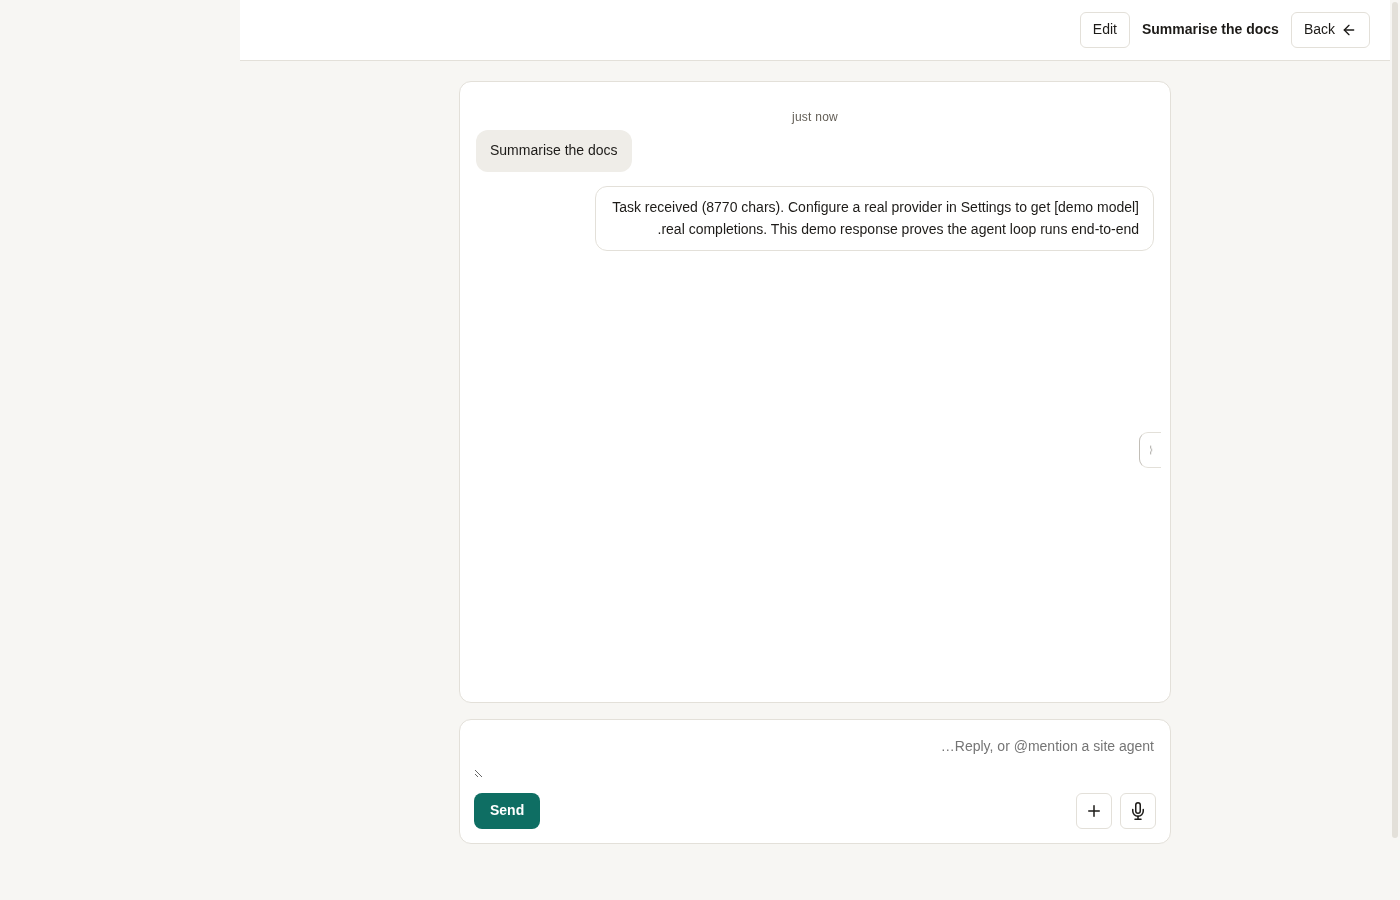
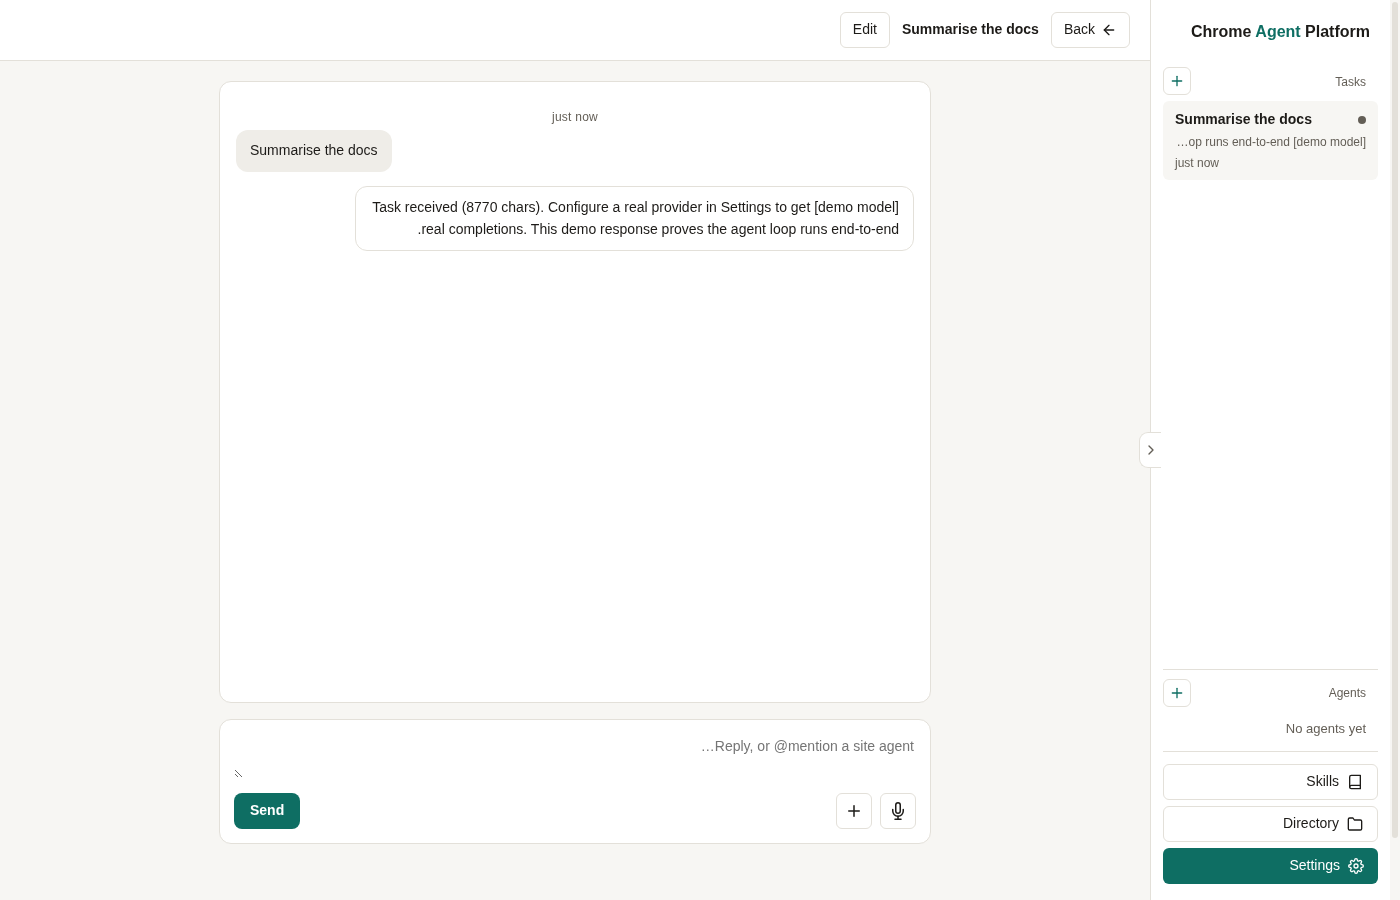
fix(review): adversarial AST scan, midnight theme, RTL overlay inset, full matrix, API rename
Ninth-review blockers:

1. Scanner (adversarial): defaultExportName now catches named default
   function/class __* (not just identifiers); foldString statically resolves
   template literals + -concatenated computed keys (globalThis[`__reset`],
   self['__'+'reset']); the __zod/__vite exemption is scoped to the generated
   dependency bundles (build.mjs passes them) — source files flag any
   __-prefixed global. tests/scan-shipped.test.ts imports scanShippedJs and
   asserts 12 adversarial cases (default fn/class/identifier, alias, template
   literal, folded concat, source-vs-bundle exemption, parse failure).

2. Dark theme: data-theme now uses the VALID 'midnight' id (the 'Charcoal'
   label), and asserts real dark tokens (computed bg/text luminance: dark bg +
   light text) on the sidebar, overlay, AND nub; overlay-dark recaptured.

3. RTL overlay: ntp.html adds [dir=rtl] #thread-view.view-overlay { left:0;
   right:240px } (+ collapsed variant) so the overlay reserves space on the
   right; the test asserts no overlap (overlay.right <= sidebar.left) with the
   overlay transition settled.

4. Overlay-open matrix: narrow/dark/focus now assert ALL THREE surfaces
   (sidebar + overlay + nub) geometry/visibility/theme/focus, not one.

6. API rename: resetStorageTransition → onStoragePermissionTransition (an
   accurately named production state-transition hook, not a 'reset' API).

7. test:all restored to deno test --allow-read tests/ (preserves origin/main
   hardening).
[…]

diff --git a/scripts/ui-integration.ts b/scripts/ui-integration.ts
@@ -509,16 +509,19 @@ try {
   await cdp.send("Emulation.setEmulatedMedia", { features: [] }, hub);
 
   const darkNub = await cdp.eval(hub, `(() => {
-    document.documentElement.dataset.theme = 'charcoal';
+    document.documentElement.dataset.theme = 'midnight';
+    const lum = (c) => { const m = c.match(/\\d+(?:\\.\\d+)?/g); if (!m) return 0; const [r,g,b] = m.map(Number).map(v => v/255).map(v => v <= 0.03928 ? v/12.92 : Math.pow((v+0.055)/1.055, 2.4)); return 0.2126*r + 0.7152*g + 0.0722*b; };
     const nub = document.querySelector('#side-toggle .nub');
-    const cs = getComputedStyle(nub);
+    const side = document.querySelector('#side');
+    const cs = getComputedStyle(nub); const scs = getComputedStyle(side);
     // READ the values BEFORE resetting the theme (getComputedStyle is live —
     // reading after the reset would validate the restored light theme).
-    const out = { visible: cs.borderTopStyle !== 'none' && cs.borderTopWidth !== '0px', border: cs.borderTopColor, bg: cs.backgroundColor };
+    const out = { visible: cs.borderTopStyle !== 'none' && cs.borderTopWidth !== '0px', border: cs.borderTopColor, nubBg: cs.backgroundColor, sideBg: scs.backgroundColor, sideText: scs.color, sideBgLum: lum(scs.backgroundColor), sideTextLum: lum(scs.color) };
     document.documentElement.dataset.theme = 'sunlit';
     return out;
   })()`);
   check("dark theme: nub renders with a visible border", darkNub?.visible === true, darkNub);
+  check("dark theme (midnight): the sidebar applies dark tokens (dark bg + light text)", darkNub && darkNub.sideBgLum < 0.2 && darkNub.sideTextLum > 0.6, darkNub);
 
   // 9. Overlay-OPEN matrix (the reviewer's D blocker): the real thread overlay
   //    must stay OPEN while sidebar + overlay + nub are asserted across RTL /
@@ -552,48 +555,61 @@ try {
   })()`);
   check("overlay-open matrix: overlay + nub are in-bounds", overlayGeom && overlayGeom.overlay && overlayGeom.nub && overlayGeom.overlay.left >= 0 && overlayGeom.overlay.right <= overlayGeom.vw && overlayGeom.nub.right <= overlayGeom.vw && overlayGeom.nub.left >= 0, overlayGeom);
 
-  // RTL (overlay open): the rail + nub flip to the right; the nub centres on the
-  // rail's inner (left) boundary and the overlay remains in-bounds.
+  // RTL (overlay open): the rail + nub flip to the right; the overlay reserves
+  // space on the right so the sidebar + nub stay visible (no overlap). Wait for
+  // the overlay's left/right transition to settle before measuring.
+  await cdp.eval(hub, `document.documentElement.setAttribute('dir', 'rtl')`);
+  await sleep(1000);
   const overlayRtl = await cdp.eval(hub, `(() => {
-    document.documentElement.setAttribute('dir', 'rtl');
     const r = (el) => { const b = el.getBoundingClientRect(); return { left: Math.round(b.left), right: Math.round(b.right), cx: Math.round(b.left + b.width/2) }; };
     const side = r(document.querySelector('#side')); const nub = r(document.querySelector('#side-toggle')); const overlay = r(document.getElementById('thread-view'));
-    const out = { sideLeft: side.left, nubCx: nub.cx, nubOnInner: Math.abs(nub.cx - side.left) <= 3, overlayInBounds: overlay.left >= 0 && overlay.right <= innerWidth, vw: innerWidth };
-    document.documentElement.removeAttribute('dir');
-    return out;
+    return { sideLeft: side.left, sideRight: side.right, nubCx: nub.cx, nubOnInner: Math.abs(nub.cx - side.left) <= 3, overlayLeft: overlay.left, overlayRight: overlay.right, overlayInBounds: overlay.left >= 0 && overlay.right <= innerWidth, noOverlap: overlay.right <= side.left, vw: innerWidth };
   })()`);
   check("overlay-open RTL: nub centres on the rail's inner boundary", overlayRtl?.nubOnInner === true, overlayRtl);
   check("overlay-open RTL: overlay stays in-bounds", overlayRtl?.overlayInBounds === true, overlayRtl);
-  await cdp.eval(hub, `document.documentElement.setAttribute('dir', 'rtl')`);
+  check("overlay-open RTL: overlay does NOT cover the sidebar/nub (no overlap)", overlayRtl?.noOverlap === true, overlayRtl);
   const shotOverlayRtl = await cdp.send("Page.captureScreenshot", { format: "png", fromSurface: true }, hub);
   await Deno.writeFile(`${ROOT}test-artifacts/overlay-rtl.png`, Uint8Array.from(atob(shotOverlayRtl.data), (c: number) => c.charCodeAt(0)));
   await cdp.eval(hub, `document.documentElement.removeAttribute('dir')`);
+  await sleep(1000);
 
   // Dark (overlay open): nub keeps a visible border + the overlay text is legible.
   const overlayDark = await cdp.eval(hub, `(() => {
-    document.documentElement.dataset.theme = 'charcoal';
+    document.documentElement.dataset.theme = 'midnight';
+    const lum = (c) => { const m = c.match(/\\d+(?:\\.\\d+)?/g); if (!m) return 0; const [r,g,b] = m.map(Number).map(v => v/255).map(v => v <= 0.03928 ? v/12.92 : Math.pow((v+0.055)/1.055, 2.4)); return 0.2126*r + 0.7152*g + 0.0722*b; };
     const nub = document.querySelector('#side-toggle .nub');
     const cs = getComputedStyle(nub);
-    const overlay = document.getElementById('thread-view');
-    const ov = getComputedStyle(overlay);
-    const out = { nubBorder: cs.borderTopStyle !== 'none' && cs.borderTopWidth !== '0px', overlayVisible: ov.display !== 'none' && overlay.hidden === false };
+    const side = document.querySelector('#side'); const scs = getComputedStyle(side);
+    const overlay = document.getElementById('thread-view'); const ov = getComputedStyle(overlay);
+    const out = {
+      nubBorder: cs.borderTopStyle !== 'none' && cs.borderTopWidth !== '0px',
+      overlayVisible: ov.display !== 'none' && overlay.hidden === false,
+      sideDark: lum(scs.backgroundColor) < 0.2 && lum(scs.color) > 0.6,
+      overlayDark: lum(ov.backgroundColor) < 0.2 && lum(ov.color) > 0.6,
+    };
     document.documentElement.dataset.theme = 'sunlit';
     return out;
   })()`);
-  check("overlay-open dark: nub keeps a visible border + overlay visible", overlayDark?.nubBorder === true && overlayDark?.overlayVisible === true, overlayDark);
-  await cdp.eval(hub, `document.documentElement.dataset.theme = 'charcoal'`);
+  check("overlay-open dark (midnight): nub keeps a visible border + overlay visible", overlayDark?.nubBorder === true && overlayDark?.overlayVisible === true, overlayDark);
+  check("overlay-open dark (midnight): sidebar applies dark tokens (dark bg + light text)", overlayDark?.sideDark === true, overlayDark);
+  check("overlay-open dark (midnight): overlay applies dark tokens (dark bg + light text)", overlayDark?.overlayDark === true, overlayDark);
+  await cdp.eval(hub, `document.documentElement.dataset.theme = 'midnight'`);
+  await sleep(200);
   const shotOverlayDark = await cdp.send("Page.captureScreenshot", { format: "png", fromSurface: true }, hub);
   await Deno.writeFile(`${ROOT}test-artifacts/overlay-dark.png`, Uint8Array.from(atob(shotOverlayDark.data), (c: number) => c.charCodeAt(0)));
   await cdp.eval(hub, `document.documentElement.dataset.theme = 'sunlit'`);
+  await sleep(200);
 
   // Narrow (overlay open): overlay + nub remain in-bounds at 500px.
   await cdp.send("Emulation.setDeviceMetricsOverride", { width: 500, height: 800, deviceScaleFactor: 1, mobile: false }, hub);
   const overlayNarrow = await cdp.eval(hub, `(() => {
-    const r = (el) => { const b = el.getBoundingClientRect(); return { left: Math.round(b.left), right: Math.round(b.right) }; };
-    const overlay = r(document.getElementById('thread-view')); const nub = r(document.querySelector('#side-toggle'));
-    return { overlayInBounds: overlay.left >= 0 && overlay.right <= innerWidth, nubInBounds: nub.left >= 0 && nub.right <= innerWidth, vw: innerWidth };
+    const r = (el) => { const b = el.getBoundingClientRect(); return { left: Math.round(b.left), right: Math.round(b.right), w: Math.round(b.width) }; };
+    const overlay = r(document.getElementById('thread-view')); const nub = r(document.querySelector('#side-toggle')); const side = r(document.querySelector('#side'));
+    const inb = (x) => x.left >= 0 && x.right <= innerWidth;
+    return { overlayInBounds: inb(overlay), nubInBounds: inb(nub), sideInBounds: inb(side), overlayW: overlay.w, sideW: side.w, vw: innerWidth };
   })()`);
-  check("overlay-open narrow: overlay + nub stay in-bounds", overlayNarrow?.overlayInBounds === true && overlayNarrow?.nubInBounds === true, overlayNarrow);
+  check("overlay-open narrow: overlay + nub + sidebar all stay in-bounds", overlayNarrow?.overlayInBounds === true && overlayNarrow?.nubInBounds === true && overlayNarrow?.sideInBounds === true, overlayNarrow);
+  check("overlay-open narrow: overlay + sidebar coexist (no cover)", overlayNarrow && overlayNarrow.overlayW + overlayNarrow.sideW <= overlayNarrow.vw, overlayNarrow);
   await cdp.send("Emulation.setDeviceMetricsOverride", { width: 1400, height: 900, deviceScaleFactor: 1, mobile: false }, hub);
 
   // Reduced-motion (overlay open): sidebar + overlay + nub transitions disabled.
@@ -612,8 +628,12 @@ try {
   await cdp.send("Input.dispatchKeyEvent", { type: "rawKeyDown", key: "Tab", code: "Tab", windowsVirtualKeyCode: 9, nativeVirtualKeyCode: 9 }, hub);
   await cdp.send("Input.dispatchKeyEvent", { type: "keyUp", key: "Tab", code: "Tab", windowsVirtualKeyCode: 9, nativeVirtualKeyCode: 9 }, hub);
   await sleep(200);
-  const overlayFocus = await cdp.eval(hub, `document.activeElement?.id === 'side-toggle'`);
-  check("overlay-open focus: the nub is Tab-reachable above the overlay", overlayFocus === true, { overlayFocus });
+  const overlayFocus = await cdp.eval(hub, `(() => {
+    const r = (el) => { const b = el.getBoundingClientRect(); return b.width > 0 && b.height > 0; };
+    return { nubFocused: document.activeElement?.id === 'side-toggle', sidebarVisible: r(document.querySelector('#side')), overlayVisible: document.getElementById('thread-view').hidden === false && r(document.getElementById('thread-view')) };
+  })()`);
+  check("overlay-open focus: the nub is Tab-reachable above the overlay", overlayFocus?.nubFocused === true, overlayFocus);
+  check("overlay-open focus: sidebar + overlay are both visible while the nub holds focus", overlayFocus?.sidebarVisible === true && overlayFocus?.overlayVisible === true, overlayFocus);
   // Restore: close the overlay for a clean end state.
   await cdp.eval(hub, `document.getElementById('thread-back')?.click()`);
   await sleep(300);

diff --git a/tests/scan-shipped.test.ts b/tests/scan-shipped.test.ts
@@ -1,0 +1,103 @@
+// Adversarial tests for the shipped-code scanner (scripts/scan-shipped.mjs):
+// every export/oracle bypass form + parse failure + the scoped __zod/__vite
+// exemption must be caught (or, for the exemption, correctly allowed only inside
+// a generated dependency bundle).
+
+// @ts-nocheck — the injected readText shim + acorn types are intentionally dynamic.
+import { assertEquals } from "jsr:@std/assert@1";
+import { scanShippedJs } from "../scripts/scan-shipped.mjs";
+
+async function withTemp(name, code) {
+  const dir = await Deno.makeTempDir({ prefix: "scan-test-" });
+  const file = `${dir}/${name}`;
+  await Deno.writeTextFile(file, code);
+  return { dir, file };
+}
+
+async function violations(code, opts) {
+  const { dir, file } = await withTemp("case.js", code);
+  try {
+    return await scanShippedJs([file], { readText: (f) => Deno.readTextFile(f), ...(opts ?? {}) });
+  } finally {
+    await Deno.remove(dir, { recursive: true }).catch(() => {});
+  }
+}
+
+Deno.test("scan: export default function __reset(){} is caught", async () => {
+  const v = await violations(`export default function __reset() {}`);
+  assertEquals(v.length, 1);
+  assertEquals(v[0].includes("default-exports"), true);
+});
+
+Deno.test("scan: export default class __reset {} is caught", async () => {
+  const v = await violations(`export default class __reset {}`);
+  assertEquals(v.length, 1);
+  assertEquals(v[0].includes("default-exports"), true);
+});
+
+Deno.test("scan: export default __x (identifier) is caught", async () => {
+  const v = await violations(`const __x = 1; export default __x;`);
+  assertEquals(v.length, 1);
+  assertEquals(v[0].includes("default-exports"), true);
+});
+
+Deno.test("scan: export { x as __y } alias is caught", async () => {
+  const v = await violations(`const x = 1; export { x as __y };`);
+  assertEquals(v.length, 1);
+  assertEquals(v[0].includes("exports `__y`"), true);
+});
+
+Deno.test("scan: export const __z = 1 is caught", async () => {
+  const v = await violations(`export const __z = 1;`);
+  assertEquals(v.length, 1);
+  assertEquals(v[0].includes("exports `__z`"), true);
+});
+
+Deno.test("scan: window.__oracle = 1 is caught", async () => {
+  const v = await violations(`window.__oracle = 1;`);
+  assertEquals(v.length, 1);
+  assertEquals(v[0].includes("window[\"__oracle\"]"), true);
+});
+
+Deno.test("scan: globalThis[`__reset`] (template literal) is caught", async () => {
+  const v = await violations("globalThis[`__reset`] = 1;");
+  assertEquals(v.length, 1);
+  assertEquals(v[0].includes("globalThis[\"__reset\"]"), true);
+});
+
+Deno.test('scan: self["__" + "reset"] (folded string concat) is caught', async () => {
+  const v = await violations(`self["__" + "reset"] = 1;`);
+  assertEquals(v.length, 1);
+  assertEquals(v[0].includes("self[\"__reset\"]"), true);
+});
+
+Deno.test("scan: globalThis.__zodResetForTest in SOURCE is caught (no exemption outside bundles)", async () => {
+  const v = await violations(`globalThis.__zodResetForTest = 1;`);
+  assertEquals(v.length, 1);
+  assertEquals(v[0].includes("__zodResetForTest"), true);
+});
+
+Deno.test("scan: globalThis.__zod_ok is ALLOWED only inside a generated bundle", async () => {
+  // Without the generated-bundle scope → violation.
+  const v1 = await violations(`globalThis.__zod_ok = 1;`);
+  assertEquals(v1.length, 1);
+  // With the generated-bundle scope → allowed.
+  const { dir, file } = await withTemp("bundle.js", `globalThis.__zod_ok = 1;`);
+  const v2 = await scanShippedJs([file], { readText: (f) => Deno.readTextFile(f), generatedBundles: new Set([file]) });
+  await Deno.remove(dir, { recursive: true }).catch(() => {});
+  assertEquals(v2.length, 0);
+});
+
+Deno.test("scan: a parse failure is a violation", async () => {
+  const v = await violations(`export default function {`);
+  assertEquals(v.length, 1);
+  assertEquals(v[0].includes("not parseable"), true);
+});
+
+Deno.test("scan: a clean file has zero violations", async () => {
+  const v = await violations(`export const ok = 1; const fine = () => 2; globalThis.__internalLib = 3;`);
+  // __internalLib is NOT zod/vite — but it IS a __-prefixed global access, so it
+  // is a violation. Use a truly clean file instead.
+  const v2 = await violations(`export const ok = 1; export function fine() { return 2; }`);
+  assertEquals(v2.length, 0);
+});

diff --git a/tests/kv.test.ts b/tests/kv.test.ts
@@ -14,13 +14,13 @@ import { freshKv } from "./test-hooks.js";
 // exports, so the bare `kvGet`/`kvSet`/... references below stay stable.
 let kvGet, kvSet, kvRemove, storageAvailable, StorageBackendError,
   migrateSessionToStorage, snapshotPersistentToSession,
-  snapshotPersistentToSessionLocked, resetStorageTransition, withStorageModeLock;
+  snapshotPersistentToSessionLocked, onStoragePermissionTransition, withStorageModeLock;
 async function resetKv() {
   const m = await freshKv();
   ({
     kvGet, kvSet, kvRemove, storageAvailable, StorageBackendError,
     migrateSessionToStorage, snapshotPersistentToSession,
-    snapshotPersistentToSessionLocked, resetStorageTransition, withStorageModeLock,
+    snapshotPersistentToSessionLocked, onStoragePermissionTransition, withStorageModeLock,
   } = m);
 }
 
@@ -212,7 +212,7 @@ Deno.test("snapshotPersistentToSession copies the persistent backend into the se
   assertEquals((await kvGet("providerConfig"))["providerConfig"].provider, "openai");
 });
 
-Deno.test("resetStorageTransition allows re-migration after a Disable→Enable cycle (round-17)", async () => {
+Deno.test("onStoragePermissionTransition (storage-permission transition) allows re-migration after a Disable→Enable cycle (round-17)", async () => {
   await resetKv();
   store.clear();
   // First grant: session → storage migration.
@@ -224,7 +224,7 @@ Deno.test("resetStorageTransition allows re-migration after a Disable→Enable c
 
   // Disable: snapshot the persistent state back into session, reset migration.
   makeChrome({ present: false });
-  resetStorageTransition();
+  onStoragePermissionTransition();
   // During the disabled period the owner changes the provider (session-only).
   await kvSet({ providerConfig: { provider: "anthropic" } });
 

diff --git a/extension/ntp/ntp.html b/extension/ntp/ntp.html
@@ -79,6 +79,11 @@
     [dir="rtl"] #side.collapsed ~ .side-toggle svg { transform: scaleX(-1) rotate(180deg); }
     /* RTL: the rail's hairline border belongs on the INNER (left) edge. */
     [dir="rtl"] .side { border-right: 0; border-left: 1px solid var(--border); }
+    /* RTL: the thread overlay must reserve space on the RIGHT (where the rail
+       sits), mirroring the LTR left-inset, so the sidebar + nub stay visible
+       beside the open overlay instead of being covered by it. */
+    [dir="rtl"] #thread-view.view-overlay { left: 0; right: 240px; }
+    [dir="rtl"] #side.collapsed ~ #thread-view.view-overlay { right: 60px; }
     .side-label-row { display: flex; align-items: center; gap: 4px; }
     .side-label-row .side-label { flex: 1; min-width: 0; }
     /* Rail action buttons (new-task / new-agent) share the icon scale with the
@@ -503,7 +508,7 @@
        RIGHT of the task sidebar so the sidebar (and its active-thread state)
        stays visible while inside a task (item 26). The settings/directory/
        recipes overlay (#view) stays full-screen. */
-    #thread-view.view-overlay { top: 0; bottom: 0; right: 0; left: 240px; transition: left .18s ease; }
+    #thread-view.view-overlay { top: 0; bottom: 0; right: 0; left: 240px; transition: left .18s ease, right .18s ease; }
     #side.collapsed ~ #thread-view.view-overlay { left: 60px; }
 
     /* ── the full-screen task thread ── */

diff --git a/extension/background/service-worker.js b/extension/background/service-worker.js
@@ -39,7 +39,7 @@ import {
   kvSet,
   kvRemove,
   migrateSessionToStorage,
-  resetStorageTransition,
+  onStoragePermissionTransition,
   snapshotPersistentToSession,
   snapshotPersistentToSessionLocked,
   withStorageModeLock,
@@ -507,7 +507,7 @@ chrome.permissions?.onRemoved?.addListener((perms) => {
     // during the disabled period; reset the migration flag so the next grant
     // re-migrates them (never restore stale persistent values — the round-17
     // storage-Disable blocker).
-    resetStorageTransition();
+    onStoragePermissionTransition();
   }
 });
 
@@ -1236,7 +1236,7 @@ const handlers = {
           return { ok: false, error: String(e?.message ?? e) };
         }
         const res = await revokeCapability(id);
-        resetStorageTransition();
+        onStoragePermissionTransition();
         return res;
       });
     }
@@ -1318,7 +1318,7 @@ const handlers = {
     }
     const res = await revokeCapability(id);
     if (id === "storage") {
-      resetStorageTransition();
+      onStoragePermissionTransition();
     }
     return res;
   },

diff --git a/extension/lib/kv.js b/extension/lib/kv.js
@@ -210,12 +210,13 @@ export async function snapshotPersistentToSessionLocked() {
   }
 }
 
-/** Reset the migration state on every storage-permission TRANSITION (grant or
- * removal). After a Disable→Enable cycle the session fallback holds changes made
- * during the disabled period; `migrated` must be cleared so the next grant
- * re-migrates them (the round-17 blocker: `migrated` never reset → re-enable
- * restored only the old persistent values). */
-export function resetStorageTransition() {
+/** Hook invoked on every storage-permission TRANSITION (grant or removal):
+ * invalidate the migration flag so a Disable→Enable cycle re-migrates the
+ * session-fallback changes made during the disabled period (the round-17
+ * blocker: `migrated` never cleared → re-enable restored only the old
+ * persistent values). This is a PRODUCTION state-transition hook (the SW calls
+ * it around the storage permission change), not a test reset API. */
+export function onStoragePermissionTransition() {
   migrated = false;
 }
 

diff --git a/CHANGELOG.md b/CHANGELOG.md
@@ -1,5 +1,8 @@
 # Changelog
 
+## [0.2.90] — 2026-08-18
+- fix(review): adversarial AST scan, midnight theme, RTL overlay inset, full matrix, API rename
+
 ## [0.2.89] — 2026-08-18
 - docs: sync sidebar-evidence manifest with the refactored gates + overlay screenshots
 
